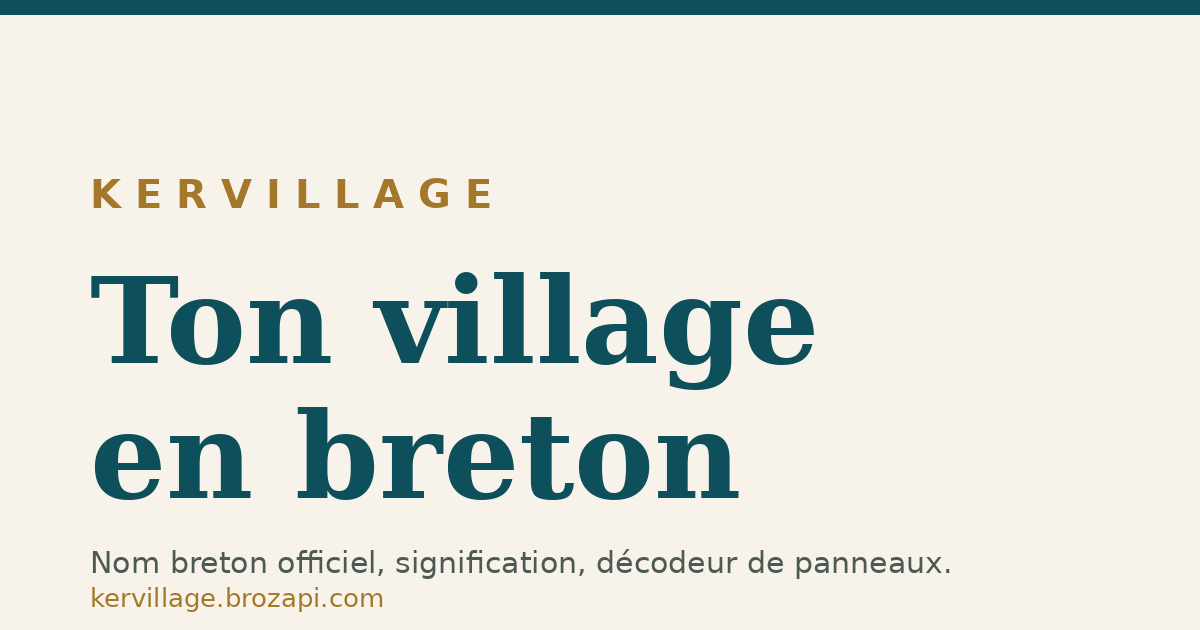
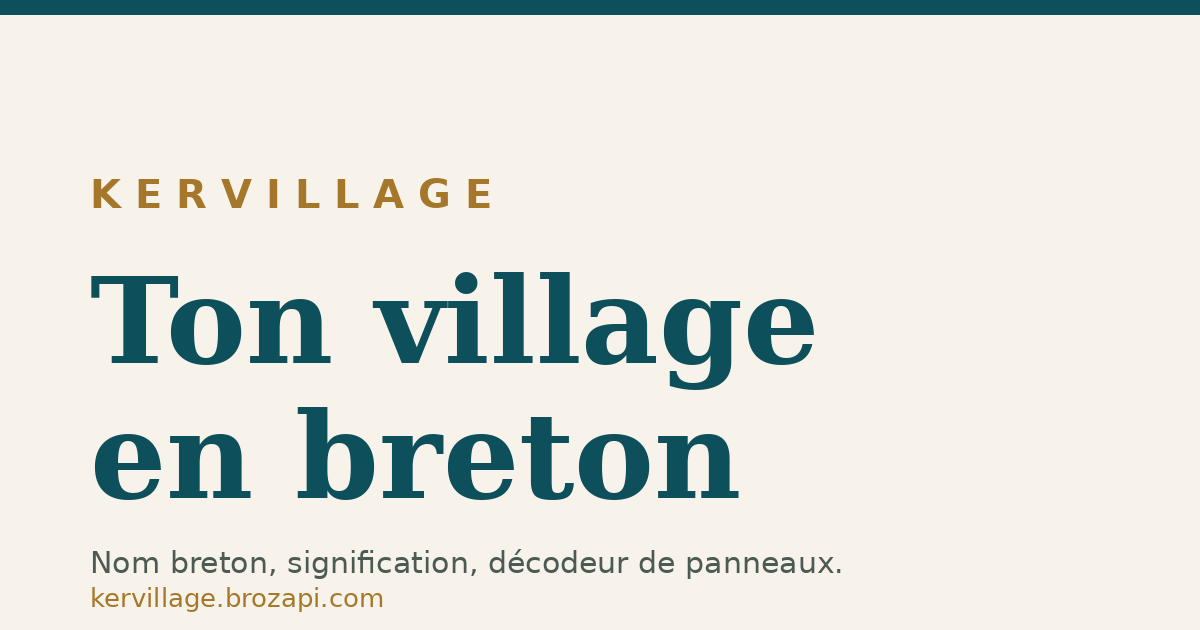
Honnêteté : retire « nom breton officiel » et « relu par un bretonnant », nuance « cinq départements », noindex sur build/telephone.html
- nom breton « officiel » -> « nom breton » (hero, metas, og-image, README, pourquoi) : les noms name:br sont attestes, pas officialises
- « relu par une personne qui parle breton » -> « verifiee systematiquement contre sa source » (pourquoi, sources)
- home : « ... cinq departements de Bretagne historique, plus quelques communes limitrophes » ; note sur d/44 (9 fiches en 49/85)
- build/telephone.html : page autonome noindex/nofollow + viewport ; build.py en extrait le fragment <li>
- gen_og.py : chemin de sortie relatif au script (etait en dur vers un ancien workspace)

Audit t_30ba1c33, carte t_6b69036d

Changed region(s): [[0.2158, 0.8746, 0.8017, 0.9349]]

diff --git a/pourquoi.html b/pourquoi.html
@@ -38,12 +38,12 @@
 <div class="cadre prose"><h1>Pourquoi ce site</h1>
 <p>En Bretagne, on croise des panneaux bilingues tous les jours. À l'entrée des communes, sur les routes, en plein bourg. La plupart d'entre nous passons devant sans pouvoir les lire : on devine que « Kemper », « Gwengamp » ou « An Oriant » veulent dire quelque chose, mais le sens nous échappe.</p>
 <p>Ce site part d'un constat simple. Le breton n'est pas une langue d'autrefois, c'est une langue écrite à côté de nous, sur la signalétique du quotidien. Il manque juste une clé pour la lire.</p>
-<p>Alors nous avons construit la clé. Tu tapes le nom de ta commune, le site affiche son nom breton officiel et ce qu'il signifie. De fiche en fiche, tu apprends à lire les panneaux toi-même : Plou- la paroisse, Ker- le village, Loc- le lieu consacré. À la fin, un panneau n'est plus une énigme.</p>
+<p>Alors nous avons construit la clé. Tu tapes le nom de ta commune, le site affiche son nom breton et ce qu'il signifie. De fiche en fiche, tu apprends à lire les panneaux toi-même : Plou- la paroisse, Ker- le village, Loc- le lieu consacré. À la fin, un panneau n'est plus une énigme.</p>
 <p>Trois engagements, et rien de plus :</p>
 <ul>
 <li>C'est gratuit, sans compte, sans inscription.</li>
 <li>Chaque information est sourcée. Rien n'est inventé : les noms viennent d'OpenStreetMap, de Wikidata et de Wikipédia en breton, et chaque fiche l'indique.</li>
-<li>Le contenu est relu par une personne qui parle breton. C'est notre garde-fou contre les approximations, et contre les clichés.</li>
+<li>Chaque fiche est vérifiée systématiquement contre sa source (OpenStreetMap, Wikidata, Wikipédia en breton). C'est notre garde-fou contre les approximations, et contre les clichés.</li>
 </ul>
 <p>Nous n'avons pas essayé de faire joli carte postale. Le breton mérite mieux qu'un folklore : c'est une langue vivante, avec une logique, et elle se laisse lire à ceux qui en ont la clé.</p>
 <p>Le site est maintenu par Brozapi, un petit studio français qui construit des outils web simples. Il a été pensé comme un commun : les données brutes sont libres de réutilisation (voir Sources et méthode), et toute correction est la bienvenue.</p><p><a href="/">Retour à l'accueil</a></p></div>

diff --git a/index.html b/index.html
@@ -4,7 +4,7 @@
 <meta charset="utf-8">
 <meta name="viewport" content="width=device-width, initial-scale=1">
 <title>Kervillage — ton village en breton</title>
-<meta name="description" content="Le nom breton officiel de ta commune, sa signification et un décodeur pour lire les panneaux de Bretagne. Gratuit et sourcé.">
+<meta name="description" content="Le nom breton de ta commune, sa signification et un décodeur pour lire les panneaux de Bretagne. Gratuit et sourcé.">
 <!-- noindex temporaire : le lancement public est un verrou Franck (a retirer au GO) -->
 <meta name="robots" content="noindex, nofollow">
 <link rel="canonical" href="https://kervillage.brozapi.com/">
@@ -13,7 +13,7 @@
 <meta property="og:type" content="website">
 <meta property="og:site_name" content="Kervillage">
 <meta property="og:title" content="Kervillage — ton village en breton">
-<meta property="og:description" content="Le nom breton officiel de ta commune, sa signification et un décodeur pour lire les panneaux de Bretagne. Gratuit et sourcé.">
+<meta property="og:description" content="Le nom breton de ta commune, sa signification et un décodeur pour lire les panneaux de Bretagne. Gratuit et sourcé.">
 <meta property="og:url" content="https://kervillage.brozapi.com/">
 <meta property="og:image" content="https://kervillage.brozapi.com/assets/og-image.png">
 <meta property="og:image:width" content="1200">
@@ -38,7 +38,7 @@
 
 <section class="cadre hero">
   <h1 class="hero__titre">Ton village<br>en breton</h1>
-  <p class="hero__sous">Le nom breton officiel de ta commune, ce qu'il signifie,
+  <p class="hero__sous">Le nom breton de ta commune, ce qu'il signifie,
   et la clé pour lire les panneaux de Bretagne. Gratuit, sourcé, sans compte.</p>
   
 <div class="recherche" role="search">
@@ -52,7 +52,7 @@
 <script src="/assets/app.js"></script>
 
   <p class="hero__stats">1 531 communes et 28 416 lieux-dits couverts
-  dans les cinq départements de Bretagne historique.</p>
+  dans les cinq départements de Bretagne historique, plus quelques communes limitrophes.</p>
 </section>
 <section class="cadre carte-section">
   <h2>Les cinq départements</h2>

diff --git a/mentions-legales.html b/mentions-legales.html
@@ -44,7 +44,10 @@
   <li>SIRET : 103 472 866 00013 — Code APE : 6201Z (programmation informatique)</li>
   <li>Adresse : 11 rue Chevalier Tristan, 56800 Ploërmel, France</li>
   <li>Contact : <a href="mailto:contact@brozapi.com">contact@brozapi.com</a></li>
-  <li>Téléphone : <a href="tel:+33651590893">06 51 59 08 93</a></li>
+  <li> ci-dessous est extrait par build/build.py
+     pour etre insere dans mentions-legales.html. Cette page n'est pas
+     destinee a etre indexee ni vue telle quelle. -->
+<li>Téléphone : <a href="tel:+33651590893">06 51 59 08 93</a></li>
   <li>Directeur de la publication : <strong>Franck Barrin</strong></li>
   <li>TVA non applicable, article 293 B du CGI (franchise en base de TVA)</li>
 </ul>

diff --git a/sources.html b/sources.html
@@ -57,7 +57,7 @@
 <p>1. On rassemble les noms depuis les sources ci-dessus, sans rien réécrire soi-même.</p>
 <p>2. On les décompose en briques (Plou-, Ker-, Loc-…) pour expliquer la construction de chaque nom.</p>
 <p>3. Chaque fiche affiche sa source, de façon visible.</p>
-<p>4. L'ensemble du contenu est relu par une personne qui parle breton avant publication.</p>
+<p>4. Chaque fiche est vérifiée systématiquement contre sa source avant publication.</p>
 <h2 id="ce-que-ce-site-n-est-pas">Ce que ce site n'est pas</h2>
 <ul>
 <li>Ce n'est pas une traduction automatique. Aucun nom n'est deviné par une machine.</li>

diff --git a/build/telephone.html b/build/telephone.html
@@ -1,1 +1,15 @@
+<!DOCTYPE html>
+<html lang="fr">
+<head>
+<meta charset="utf-8">
+<meta name="viewport" content="width=device-width, initial-scale=1">
+<meta name="robots" content="noindex, nofollow">
+<title>Fragment interne - Kervillage</title>
+</head>
+<body>
+<!-- Fragment interne : le <li> ci-dessous est extrait par build/build.py
+     pour etre insere dans mentions-legales.html. Cette page n'est pas
+     destinee a etre indexee ni vue telle quelle. -->
 <li>Téléphone : <a href="tel:+33651590893">06 51 59 08 93</a></li>
+</body>
+</html>

diff --git a/d/44-loire-atlantique.html b/d/44-loire-atlantique.html
@@ -41,6 +41,7 @@
   <h1>Loire-Atlantique (44)</h1>
   <p>231 communes, toutes avec leur nom breton, et 2392 lieux-dits répertoriés
   dans la base. Cherche un nom ci-dessous ou parcours la liste.</p>
+  <p>Quelques communes limitrophes du pays nantais (Vendée, Maine-et-Loire) figurent aussi dans cette liste : elles appartiennent au même territoire de toponymie bretonne.</p>
   
 <div class="recherche" role="search">
   <label class="recherche__label" for="champ">Tape le nom de ta commune</label>

diff --git a/build/build.py b/build/build.py
@@ -460,11 +460,11 @@ def render_index(communes, nb_lieux):
     body = f"""
 <section class="cadre hero">
   <h1 class="hero__titre">Ton village<br>en breton</h1>
-  <p class="hero__sous">Le nom breton officiel de ta commune, ce qu'il signifie,
+  <p class="hero__sous">Le nom breton de ta commune, ce qu'il signifie,
   et la clé pour lire les panneaux de Bretagne. Gratuit, sourcé, sans compte.</p>
   {header_recherche()}
   <p class="hero__stats">{nb(len(communes))} communes et {nb(nb_lieux)} lieux-dits couverts
-  dans les cinq départements de Bretagne historique.</p>
+  dans les cinq départements de Bretagne historique, plus quelques communes limitrophes.</p>
 </section>
 <section class="cadre carte-section">
   <h2>Les cinq départements</h2>
@@ -499,7 +499,7 @@ def render_index(communes, nb_lieux):
 </section>
 """
     return page(f"{SITE_NAME} — {TAGLINE}",
-                "Le nom breton officiel de ta commune, sa signification et un décodeur pour lire "
+                "Le nom breton de ta commune, sa signification et un décodeur pour lire "
                 "les panneaux de Bretagne. Gratuit et sourcé.",
                 body, "/")
 
@@ -511,12 +511,16 @@ def render_departement(code, communes_dept, nb_lieux_dept):
         f'<li><a href="/c/{c["insee"]}-{fold(c["nom_fr"])}.html">{html.escape(c["nom_fr"])}</a>'
         f' <span class="liste__br" lang="br">{html.escape(c["nom_br"])}</span></li>'
         for c in sorted(communes_dept, key=lambda x: fold(x["nom_fr"])))
+    note_limitrophes = (
+        "\n  <p>Quelques communes limitrophes du pays nantais (Vendée, Maine-et-Loire) "
+        "figurent aussi dans cette liste : elles appartiennent au même territoire "
+        "de toponymie bretonne.</p>" if code == "44" else "")
     body = f"""
 <div class="cadre">
   <p class="fiche__fil"><a href="/">Accueil</a></p>
   <h1>{html.escape(nom)} ({code})</h1>
   <p>{len(communes_dept)} communes, toutes avec leur nom breton, et {nb_lieux_dept} lieux-dits répertoriés
-  dans la base. Cherche un nom ci-dessous ou parcours la liste.</p>
+  dans la base. Cherche un nom ci-dessous ou parcours la liste.</p>{note_limitrophes}
   {header_recherche()}
   <ul class="liste">{items}</ul>
 </div>
@@ -573,7 +577,10 @@ def render_simple(md_file, title, desc, canonical, complement=""):
 
 
 def render_mentions():
-    tel = open(os.path.join(ROOT, "build", "telephone.html"), encoding="utf-8").read().strip()
+    # build/telephone.html est une page HTML autonome (noindex) : on n'en extrait
+    # que le fragment <li> avec le numero, pour l'inserer dans les mentions.
+    src = open(os.path.join(ROOT, "build", "telephone.html"), encoding="utf-8").read()
+    tel = re.search(r"<li>.*?</li>", src, re.S).group(0).strip()
     body = f"""
 <div class="cadre prose">
 <h1>Mentions légales</h1>

diff --git a/build/gen_og.py b/build/gen_og.py
@@ -3,7 +3,11 @@
 # dependencies = ["pillow"]
 # ///
 """Genere assets/og-image.png (1200x630) pour Kervillage."""
+import os
+
 from PIL import Image, ImageDraw, ImageFont
+
+ROOT = os.path.dirname(os.path.dirname(os.path.abspath(__file__)))
 
 W, H = 1200, 630
 PAPIER = (247, 243, 234)
@@ -39,9 +43,9 @@ marge = 90
 d.text((marge, 170), "K E R V I L L A G E", font=font(40, bold=True, serif=False), fill=OR)
 d.text((marge, 250), "Ton village", font=font(120, bold=True), fill=ACCENT)
 d.text((marge, 385), "en breton", font=font(120, bold=True), fill=ACCENT)
-d.text((marge, 545), "Nom breton officiel, signification, décodeur de panneaux.",
+d.text((marge, 545), "Nom breton, signification, décodeur de panneaux.",
        font=font(30, serif=False), fill=DOUX)
 d.text((marge, H - 48), "kervillage.brozapi.com", font=font(26, serif=False), fill=OR)
 
-img.save("/opt/data/kanban/boards/brozapi/workspaces/t_a0972353/kervillage/assets/og-image.png")
+img.save(os.path.join(ROOT, "assets", "og-image.png"))
 print("og-image.png ecrit")

diff --git a/content/pourquoi.md b/content/pourquoi.md
@@ -4,13 +4,13 @@ En Bretagne, on croise des panneaux bilingues tous les jours. À l'entrée des c
 
 Ce site part d'un constat simple. Le breton n'est pas une langue d'autrefois, c'est une langue écrite à côté de nous, sur la signalétique du quotidien. Il manque juste une clé pour la lire.
 
-Alors nous avons construit la clé. Tu tapes le nom de ta commune, le site affiche son nom breton officiel et ce qu'il signifie. De fiche en fiche, tu apprends à lire les panneaux toi-même : Plou- la paroisse, Ker- le village, Loc- le lieu consacré. À la fin, un panneau n'est plus une énigme.
+Alors nous avons construit la clé. Tu tapes le nom de ta commune, le site affiche son nom breton et ce qu'il signifie. De fiche en fiche, tu apprends à lire les panneaux toi-même : Plou- la paroisse, Ker- le village, Loc- le lieu consacré. À la fin, un panneau n'est plus une énigme.
 
 Trois engagements, et rien de plus :
 
 - C'est gratuit, sans compte, sans inscription.
 - Chaque information est sourcée. Rien n'est inventé : les noms viennent d'OpenStreetMap, de Wikidata et de Wikipédia en breton, et chaque fiche l'indique.
-- Le contenu est relu par une personne qui parle breton. C'est notre garde-fou contre les approximations, et contre les clichés.
+- Chaque fiche est vérifiée systématiquement contre sa source (OpenStreetMap, Wikidata, Wikipédia en breton). C'est notre garde-fou contre les approximations, et contre les clichés.
 
 Nous n'avons pas essayé de faire joli carte postale. Le breton mérite mieux qu'un folklore : c'est une langue vivante, avec une logique, et elle se laisse lire à ceux qui en ont la clé.
 

diff --git a/content/sources.md b/content/sources.md
@@ -24,7 +24,7 @@ Les étymologies et les sens des noms s'appuient sur Wikipédia en breton, dont 
 1. On rassemble les noms depuis les sources ci-dessus, sans rien réécrire soi-même.
 2. On les décompose en briques (Plou-, Ker-, Loc-…) pour expliquer la construction de chaque nom.
 3. Chaque fiche affiche sa source, de façon visible.
-4. L'ensemble du contenu est relu par une personne qui parle breton avant publication.
+4. Chaque fiche est vérifiée systématiquement contre sa source avant publication.
 
 ## Ce que ce site n'est pas
 

diff --git a/README.md b/README.md
@@ -1,6 +1,6 @@
 # Kervillage — ton village en breton
 
-Site statique gratuit : le nom breton officiel de chaque commune de Bretagne historique,
+Site statique gratuit : le nom breton de chaque commune de Bretagne historique,
 sa lecture brique par brique, et un décodeur de panneaux.
 
 - Production : https://kervillage.brozapi.com (GitHub Pages)
